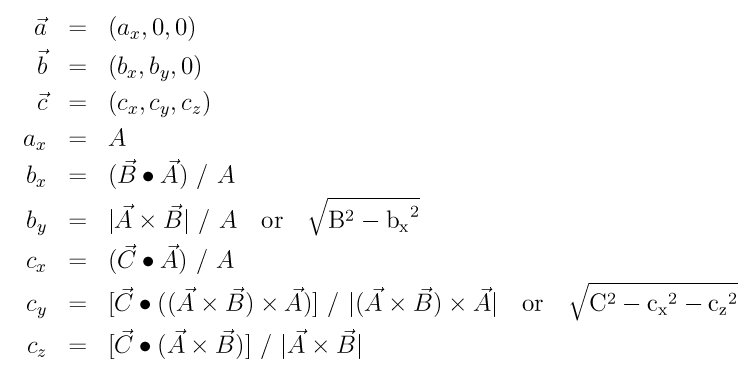
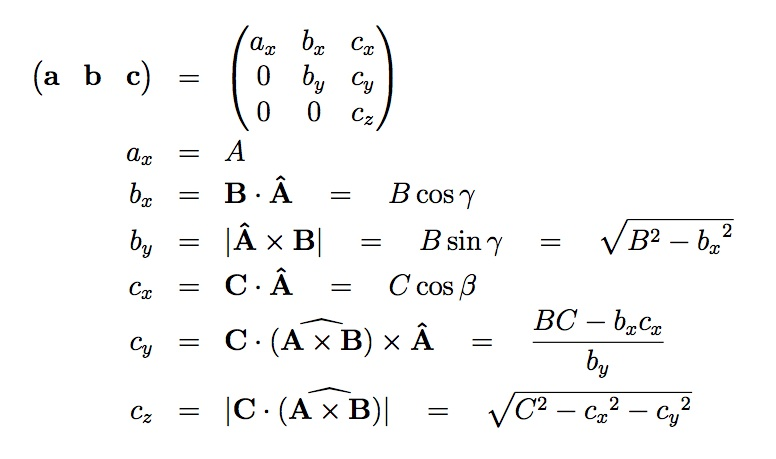
Updated doc page for triclinic cell
git-svn-id: svn://svn.icms.temple.edu/lammps-ro/trunk@8004 f3b2605a-c512-4ea7-a41b-209d697bcdaa

diff --git a/doc/Section_howto.html b/doc/Section_howto.html
@@ -769,11 +769,11 @@ See the <A HREF = "dump.html">dump</A> command for more information on XTC files
 </H4>
 <P>By default, LAMMPS uses an orthogonal simulation box to encompass the
 particles.  The <A HREF = "boundary.html">boundary</A> command sets the boundary
-conditions of the box (periodic, non-,periodic, etc).  The orthogonal
+conditions of the box (periodic, non-periodic, etc).  The orthogonal
 box has its "origin" at (xlo,ylo,zlo) and is defined by 3 edge vectors
 starting from the origin given by <B>a</B> = (xhi-xlo,0,0); <B>b</B> =
 (0,yhi-ylo,0); <B>c</B> = (0,0,zhi-zlo).  The 6 parameters
-(xlo,xhi,ylo,yhi,zlo,zhi) are defined at the time the simluation box
+(xlo,xhi,ylo,yhi,zlo,zhi) are defined at the time the simulation box
 is created, e.g. by the <A HREF = "create_box.html">create_box</A> or
 <A HREF = "read_data.html">read_data</A> or <A HREF = "read_restart.html">read_restart</A>
 commands.  Additionally, LAMMPS defines box size parameters lx,ly,lz
@@ -781,30 +781,53 @@ where lx = xhi-xlo, and similarly in the y and z dimensions.  The 6
 parameters, as well as lx,ly,lz, can be output via the <A HREF = "thermo_style.html">thermo_style
 custom</A> command.
 </P>
-<P>LAMMPS also allows simulations to be perfored in triclinic
+<P>LAMMPS also allows simulations to be performed in triclinic
 (non-orthogonal) simulation boxes shaped as a parallelepiped with
 triclinic symmetry.  The parallelepiped has its "origin" at
 (xlo,ylo,zlo) and is defined by 3 edge vectors starting from the
 origin given by <B>a</B> = (xhi-xlo,0,0); <B>b</B> = (xy,yhi-ylo,0); <B>c</B> =
-(xz,yz,zhi-zlo).  <I>Xy,xz,yz</I> can be 0.0 or positive or negative values
+(xz,yz,zhi-zlo).  <I>xy,xz,yz</I> can be 0.0 or positive or negative values
 and are called "tilt factors" because they are the amount of
 displacement applied to faces of an originally orthogonal box to
-transform it into the parallelepiped.  Note that in LAMMPS the
+transform it into the parallelepiped.  In LAMMPS the
 triclinic simulation box edge vectors <B>a</B>, <B>b</B>, and <B>c</B> cannot be
-arbitrary vectors.  As indicated, <B>a</B> must be aligned with the x axis,
-<B>b</B> must be in the xy plane, and <B>c</B> is arbitrary.  However, this is
-not a restriction since it is possible to rotate any set of 3 crystal
-basis vectors so that they meet this restriction.
+arbitrary vectors.  As indicated, <B>a</B> must lie on the positive x axis.
+<B>b</B> must lie in the xy plane, with strictly positive y component. <B>c</B> may 
+have any orientation with strictly positive z component.
+The requirement that <B>a</B>, <B>b</B>, and <B>c</B> have strictly positive x, y,
+and z components, respectively, ensures
+that <B>a</B>, <B>b</B>, and <B>c</B> form a complete right-handed basis.
+These restrictions impose
+no loss of generality, since it is possible to rotate/invert 
+any set of 3 crystal basis vectors so that they conform to the restrictions.
 </P>
 <P>For example, assume that the 3 vectors <B>A</B>,<B>B</B>,<B>C</B> are the edge
-vectors of a general parallelipied, where there is no directional
-requirements <B>A</B>,<B>B</B>,<B>C</B> other than they are not co-planar and that
-<B>C</B> dotted into (<B>A</B> x <B>B</B>) be > 0, i.e.  the vectors are ordered to
-satisfy a right-hand rule.  The equivalent LAMMPS <B>a</B>,<B>b</B>,<B>c</B> vectors
-can be computed as follows where A = |<B>A</B>| = scalar length of <B>A</B>.
+vectors of a general parallelepiped, where there is no restriction
+on <B>A</B>,<B>B</B>,<B>C</B> other than they form a complete right-handed basis i.e.
+<B>A</B> x <B>B</B> . <B>C</B> > 0.
+The equivalent LAMMPS <B>a</B>,<B>b</B>,<B>c</B> are a linear rotation of <B>A</B>, <B>B</B>, and
+<B>C</B> and can be computed as follows:
 </P>
 <CENTER><IMG SRC = "Eqs/transform.jpg">
 </CENTER>
+<P>where A = |<B>A</B>| indicates the scalar length of <B>A</B>. The ^ hat symbol
+indicates the corresponding unit vector. beta and gamma are angles
+between the vectors described below. The same rotation must also
+be applied to atom positions, velocities, and any other vector quantities.
+This can be done by first converting to fractional coordinates in the
+old basis and then converting to distance coordinates in the new basis.
+The transformation is given by the following equation:
+</P>
+<CENTER><IMG SRC = "Eqs/rotate.jpg">
+</CENTER>
+<P>where V is the volume of the box, <B>X</B> is the original vector quantity and 
+<B>x</B> is the vector in the LAMMPS basis.
+</P>
+<P>If it should happen that
+<B>A</B>, <B>B</B>, and <B>C</B> form a left-handed basis, then it is necessary
+to first apply an inversion in addition to rotation. This can be achieved
+by interchanging two of the vectors or changing the sign of one of them.
+</P>
 <P>There is no requirement that a triclinic box be periodic in any
 dimension, though it typically should be in at least the 2nd dimension
 of the tilt (y in xy) if you want to enforce a shift in periodic
@@ -1214,7 +1237,7 @@ discussed below, it can be referenced via the following bracket
 notation, where ID in this case is the ID of a compute.  The leading
 "c_" would be replaced by "f_" for a fix, or "v_" for a variable:
 </P>
-<DIV ALIGN=center><TABLE  BORDER=1 >
+<DIV ALIGN=center><TABLE  WIDTH="0%"  BORDER=1 >
 <TR><TD >c_ID </TD><TD > entire scalar, vector, or array</TD></TR>
 <TR><TD >c_ID[I] </TD><TD > one element of vector, one column of array</TD></TR>
 <TR><TD >c_ID[I][J] </TD><TD > one element of array 
@@ -1413,7 +1436,7 @@ data and scalar/vector/array data.
 input, that could be an element of a vector or array.  Likewise a
 vector input could be a column of an array.
 </P>
-<DIV ALIGN=center><TABLE  BORDER=1 >
+<DIV ALIGN=center><TABLE  WIDTH="0%"  BORDER=1 >
 <TR><TD >Command</TD><TD > Input</TD><TD > Output</TD><TD ></TD></TR>
 <TR><TD ><A HREF = "thermo_style.html">thermo_style custom</A></TD><TD > global scalars</TD><TD > screen, log file</TD><TD ></TD></TR>
 <TR><TD ><A HREF = "dump.html">dump custom</A></TD><TD > per-atom vectors</TD><TD > dump file</TD><TD ></TD></TR>

diff --git a/doc/Eqs/rotate.tex b/doc/Eqs/rotate.tex
@@ -1,0 +1,26 @@
+\documentclass[12pt]{article}
+
+\usepackage{amsmath}
+
+\begin{document}
+
+\begin{eqnarray*}
+\mathbf{x}
+ &=& 
+\begin{pmatrix}
+\mathbf{a}  &
+\mathbf{b}  &
+\mathbf{c} 
+\end{pmatrix}
+\cdot 
+ \frac{1}{V}
+ \begin{pmatrix}
+\mathbf{B \times C}  \\
+\mathbf{C \times A}  \\
+\mathbf{A \times B} 
+\end{pmatrix}
+\cdot 
+\mathbf{X}
+\end{eqnarray*}
+
+\end{document}

diff --git a/doc/Eqs/transform.tex b/doc/Eqs/transform.tex
@@ -1,17 +1,27 @@
 \documentclass[12pt]{article}
 
+\usepackage{amsmath}
+
 \begin{document}
 
 \begin{eqnarray*}
-\vec{a} &=& (a_x,0,0) \\
-\vec{b} &=& (b_x,b_y,0) \\
-\vec{c} &=& (c_x,c_y,c_z) \\
+\begin{pmatrix}
+\mathbf{a}  &
+\mathbf{b}  &
+\mathbf{c} 
+\end{pmatrix}
+& = &
+\begin{pmatrix}
+a_x & b_x & c_x \\
+0 & b_y & c_y \\
+0 & 0 & c_z \\
+\end{pmatrix} \\
 a_x &=& A \\
-b_x &=& (\vec{B} \bullet \vec{A}) \,\, / \,\, A \\
-b_y &=& |\vec{A} \times \vec{B}| \,\, / \,\, A \quad \rm{or} \quad  \sqrt{B^2 - {b_x}^2} \\
-c_x &=& (\vec{C} \bullet \vec{A}) \,\, / \,\, A \\
-c_y &=& [\vec{C} \bullet ((\vec{A} \times \vec{B}) \times \vec{A})] \,\, / \,\, |(\vec{A} \times \vec{B}) \times \vec{A}| \quad \rm{or} \quad \sqrt{C^2 - {c_x}^2 -{c_z}^2} \\
-c_z &=& [\vec{C} \bullet (\vec{A} \times \vec{B})] \,\, / \,\, |\vec{A} \times \vec{B}| \\
+b_x &=& \mathbf{B} \cdot \mathbf{\hat{A}} \quad = \quad B \cos{\gamma} \\
+b_y &=& |\mathbf{\hat{A}} \times \mathbf{B}| \quad = \quad B \sin{\gamma} \quad =  \quad  \sqrt{B^2 - {b_x}^2} \\
+c_x &=& \mathbf{C} \cdot \mathbf{\hat{A}} \quad = \quad C \cos{\beta} \\
+c_y &=& \mathbf{C} \cdot \widehat{(\mathbf{A} \times \mathbf{B})} \times \mathbf{\hat{A}} \quad = \quad \frac{B C - b_x c_x}{b_y} \\
+c_z &=& |\mathbf{C} \cdot \widehat{(\mathbf{A} \times \mathbf{B})}|\quad = \quad \sqrt{C^2 - {c_x}^2 - {c_y}^2} \\
 \end{eqnarray*}
 
 \end{document}